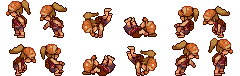
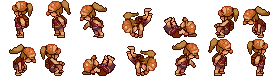
약간수정

diff --git a/Zelter23Day/01_WinMain/Player.cpp b/Zelter23Day/01_WinMain/Player.cpp
@@ -85,14 +85,14 @@ void Player::Init()
 
 	//Roll Animation
 	mLeftRoll = new Animation();
-	mLeftRoll->InitFrameByStartEnd(0, 0, 5, 0, false);
+	mLeftRoll->InitFrameByStartEnd(0, 0, 6, 0, false);
 	mLeftRoll->SetIsLoop(false);
-	mLeftRoll->SetFrameUpdateTime(0.1f);
+	mLeftRoll->SetFrameUpdateTime(0.08f);
 
 	mRightRoll = new Animation();
-	mRightRoll->InitFrameByEndStart(5, 1, 0, 1, false);
+	mRightRoll->InitFrameByEndStart(6, 1, 0, 1, false);
 	mRightRoll->SetIsLoop(false);
-	mRightRoll->SetFrameUpdateTime(0.1f);
+	mRightRoll->SetFrameUpdateTime(0.08f);
 
 	//Idle Animation
 	mUpIdleAni = new Animation();
@@ -177,7 +177,7 @@ void Player::PlayerCtrl() {
 				mPlayerState = PlayerState::roll;
 
 				mImage = IMAGEMANAGER->FindImage(L"Player_roll");
-				mSpeed = 5.f;
+				mSpeed = 8.f;
 				mCurrentAnimation->Stop();
 
 				if (mCurrentAnimation == mLeftRunAni)
